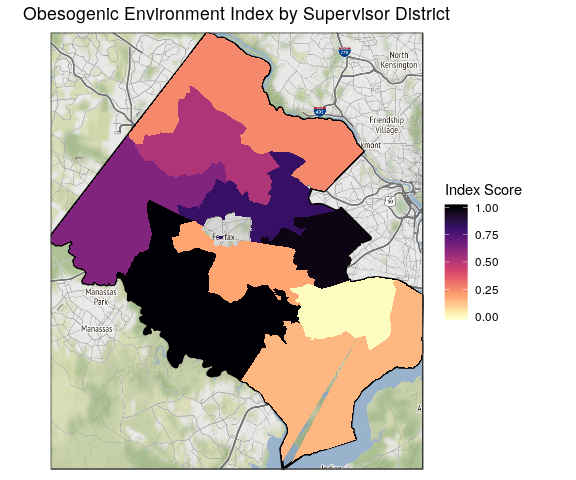
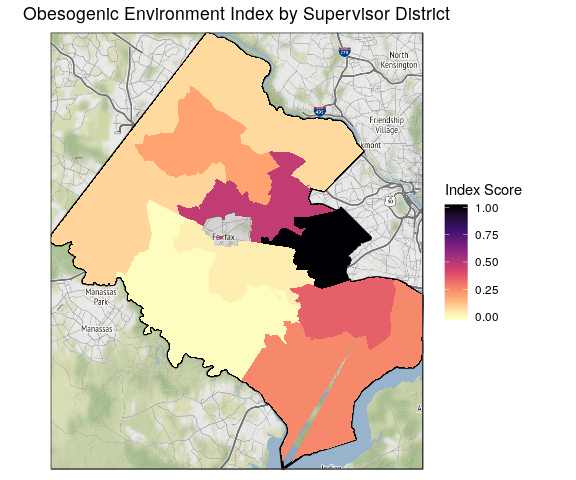
Updating OE w black instead of hispanic or minority, new figures, new data from acs.

Changed region(s): [[0.0938, 0.0625, 0.75, 0.9688]]

diff --git a/src/obesogenic_index/plot_oe_index.md b/src/obesogenic_index/plot_oe_index.md
@@ -1,51 +1,14 @@
----
-title: "Visualizing Obesogenic Index Factor Analysis"
-author: "Quinton Neville"
-date: "8/4/2019"
-output:
-  github_document: default
-  toc: true
----
+Visualizing Obesogenic Index Factor Analysis
+================
+Quinton Neville
+8/4/2019
 
-```{r setup, include = FALSE, message = FALSE, warning = FALSE}
-# Installation Libraries if needed
+1. Data Read and Factor Model
+-----------------------------
 
-# Libraries
-library(psych)
-library(tidyverse)
-library(stringr)
-library(ggplot2)
-library(ggmap)
-library(sf)
-library(rgdal)
-library(tigris)
-library(osmdata)
-library(data.table)
+Here, we read in the necessary data for our specific index, scale, fit the desired *k*-factor model, extract the loadings (variable weights), extract the proportion of total variance explained by each factor/dimension (factor weights), and define which factors load where for our composite index construction.
 
-# Setting root directory
-knitr::opts_knit$set(echo = TRUE,
-                     root.dir = rprojroot::find_rstudio_root_file())
-
-# Controlling figure output in markdown
-knitr::opts_chunk$set(
-  #  fig.height =   
-  fig.width = 6,
-  #  fig.asp = .5,
-  out.width = "90%",
-  #  out.height = 
-  cache = FALSE
-)
-# Set Theme for ggplot2
-theme_set(theme_bw() + theme(plot.title = element_text(hjust = 0.5), legend.position = "right"))
-# Set Scientific notation output for knitr
-options(scipen = 5)
-```
-
-##1. Data Read and Factor Model  
-
-Here, we read in the necessary data for our specific index, scale, fit the desired $k$-factor model, extract the loadings (variable weights), extract the proportion of total variance explained by each factor/dimension (factor weights), and define which factors load where for our composite index construction.  
-
-```{r message = FALSE, warning = FALSE}
+``` r
 #Read data original data for labels
 data.orig <- read_csv("./data/working/Obesogenic_final_data/2019_8_04_obesogenic_final.csv") %>%
   mutate(
@@ -98,7 +61,31 @@ fact.mod <- fa(r = cor.mat, nfactors = 3, rotate = "varimax", fm = "pa")
 
 #Check loadings
 print(fact.mod$loadings, cutoff = 0.3)
+```
 
+    ## 
+    ## Loadings:
+    ##                  PA1    PA2    PA3   
+    ## no_insurance             0.931       
+    ## no_highschool            0.855       
+    ## black                    0.409       
+    ## poverty                  0.779       
+    ## restaurant        0.857              
+    ## fast_food         0.845              
+    ## gas_station       0.797              
+    ## supermarket       0.738              
+    ## alcohol           0.665              
+    ## convenience       0.635              
+    ## no_swimming_pool -0.311         0.686
+    ## no_team_sport                   0.775
+    ## no_playground    -0.309         0.683
+    ## 
+    ##                  PA1   PA2   PA3
+    ## SS loadings    3.803 2.633 1.878
+    ## Proportion Var 0.293 0.203 0.144
+    ## Cumulative Var 0.293 0.495 0.640
+
+``` r
 #Extract Cronbach's Alpha  
 # Calculate internal consistency
 factor1 <- final.df %>% dplyr::select(no_insurance, no_highschool, black, poverty)
@@ -107,10 +94,107 @@ factor2 <- final.df %>% dplyr::select(restaurant, fast_food, gas_station,
 factor3 <- final.df %>% dplyr::select(no_team_sport, no_swimming_pool, no_playground)
 
 psych::alpha(factor1) # alpha = 0.84 (CI no 80), improves to .91 if black is dropped 
+```
+
+    ## 
+    ## Reliability analysis   
+    ## Call: psych::alpha(x = factor1)
+    ## 
+    ##   raw_alpha std.alpha G6(smc) average_r S/N   ase    mean   sd median_r
+    ##       0.84      0.84    0.84      0.58 5.5 0.015 7.8e-18 0.82     0.55
+    ## 
+    ##  lower alpha upper     95% confidence boundaries
+    ## 0.81 0.84 0.88 
+    ## 
+    ##  Reliability if an item is dropped:
+    ##               raw_alpha std.alpha G6(smc) average_r  S/N alpha se  var.r
+    ## no_insurance       0.74      0.74    0.69      0.48  2.8   0.0276 0.0370
+    ## no_highschool      0.76      0.76    0.74      0.52  3.3   0.0250 0.0493
+    ## black              0.91      0.91    0.88      0.77 10.3   0.0093 0.0048
+    ## poverty            0.77      0.77    0.77      0.53  3.4   0.0246 0.0727
+    ##               med.r
+    ## no_insurance   0.39
+    ## no_highschool  0.40
+    ## black          0.78
+    ## poverty        0.40
+    ## 
+    ##  Item statistics 
+    ##                 n raw.r std.r r.cor r.drop     mean sd
+    ## no_insurance  286  0.91  0.91  0.92   0.83  2.8e-17  1
+    ## no_highschool 286  0.88  0.88  0.86   0.77 -1.4e-18  1
+    ## black         286  0.65  0.65  0.43   0.41 -1.5e-17  1
+    ## poverty       286  0.87  0.87  0.82   0.75  1.1e-17  1
+
+``` r
 psych::alpha(factor2) # alpha = 0.92 (CI no 80), no improve drop
+```
+
+    ## 
+    ## Reliability analysis   
+    ## Call: psych::alpha(x = factor2)
+    ## 
+    ##   raw_alpha std.alpha G6(smc) average_r S/N    ase mean   sd median_r
+    ##       0.92      0.92    0.92      0.66  12 0.0073 0.17 0.84     0.65
+    ## 
+    ##  lower alpha upper     95% confidence boundaries
+    ## 0.91 0.92 0.94 
+    ## 
+    ##  Reliability if an item is dropped:
+    ##             raw_alpha std.alpha G6(smc) average_r  S/N alpha se  var.r
+    ## restaurant       0.89      0.89    0.89      0.62  8.3   0.0103 0.0134
+    ## fast_food        0.90      0.90    0.90      0.64  8.8   0.0098 0.0161
+    ## gas_station      0.90      0.90    0.89      0.64  9.0   0.0095 0.0160
+    ## supermarket      0.91      0.91    0.91      0.67  9.9   0.0087 0.0173
+    ## alcohol          0.92      0.92    0.92      0.71 12.1   0.0073 0.0097
+    ## convenience      0.92      0.92    0.91      0.70 11.6   0.0075 0.0078
+    ##             med.r
+    ## restaurant   0.64
+    ## fast_food    0.64
+    ## gas_station  0.64
+    ## supermarket  0.67
+    ## alcohol      0.73
+    ## convenience  0.69
+    ## 
+    ##  Item statistics 
+    ##               n raw.r std.r r.cor r.drop     mean sd
+    ## restaurant  286  0.93  0.93  0.92   0.89  4.9e-17  1
+    ## fast_food   286  0.90  0.90  0.88   0.85 -4.0e-17  1
+    ## gas_station 286  0.89  0.89  0.87   0.83 -3.3e-17  1
+    ## supermarket 286  0.84  0.84  0.80   0.77  1.0e+00  1
+    ## alcohol     286  0.76  0.76  0.68   0.65 -2.5e-17  1
+    ## convenience 286  0.78  0.78  0.73   0.68 -3.2e-17  1
+
+``` r
 psych::alpha(factor3) # alpha = 0.82, no improve drop (CI does contain 80)
+```
 
+    ## 
+    ## Reliability analysis   
+    ## Call: psych::alpha(x = factor3)
+    ## 
+    ##   raw_alpha std.alpha G6(smc) average_r S/N   ase  mean   sd median_r
+    ##       0.82      0.82    0.75       0.6 4.5 0.019 4e-18 0.85     0.61
+    ## 
+    ##  lower alpha upper     95% confidence boundaries
+    ## 0.78 0.82 0.85 
+    ## 
+    ##  Reliability if an item is dropped:
+    ##                  raw_alpha std.alpha G6(smc) average_r S/N alpha se var.r
+    ## no_team_sport         0.73      0.73    0.58      0.58 2.7    0.032    NA
+    ## no_swimming_pool      0.76      0.76    0.62      0.62 3.2    0.028    NA
+    ## no_playground         0.76      0.76    0.61      0.61 3.1    0.029    NA
+    ##                  med.r
+    ## no_team_sport     0.58
+    ## no_swimming_pool  0.62
+    ## no_playground     0.61
+    ## 
+    ##  Item statistics 
+    ##                    n raw.r std.r r.cor r.drop     mean sd
+    ## no_team_sport    286  0.87  0.87  0.76   0.69 -1.7e-17  1
+    ## no_swimming_pool 286  0.85  0.85  0.73   0.66  1.4e-17  1
+    ## no_playground    286  0.85  0.85  0.74   0.67  1.3e-17  1
 
+``` r
 # Extract loadings and explained proportation
 fa.load     <- fact.mod$loadings %>% 
                unclass() %>%
@@ -135,11 +219,11 @@ var.load <- tibble(
 )
 ```
 
-####a. Composite Index Construction  
+#### a. Composite Index Construction
 
-Here we build an index construction function, which takes the following inputs: `data` (*final scaled data frame for FA*), `factor.data` (variable~factor data frame with two columns: variable name and factor name), `geo.type` (one of `census_tract, highschool_district, supervisor_district`), `var.weights` (weights for individual variables, default is factor loadings), and `f.weights` (weights for factor aggregation, default is proportion variance explained). The output is a data frame (tibble) with columns `geography`, describing geographic observations (i.e. census tract name, school district name, etc.)), and `factor_scores`, describing the normalized (0 - 1) final index scores for each observation.  
+Here we build an index construction function, which takes the following inputs: `data` (*final scaled data frame for FA*), `factor.data` (variable~factor data frame with two columns: variable name and factor name), `geo.type` (one of `census_tract, highschool_district, supervisor_district`), `var.weights` (weights for individual variables, default is factor loadings), and `f.weights` (weights for factor aggregation, default is proportion variance explained). The output is a data frame (tibble) with columns `geography`, describing geographic observations (i.e. census tract name, school district name, etc.)), and `factor_scores`, describing the normalized (0 - 1) final index scores for each observation.
 
-```{r}
+``` r
 index_construct <- function(data = final.df, factor.data = var.load, geo.type = "census_tract", var.weights = fa.load, f.weights = fa.prop.var) {
   
 ###Housekeeping####  
@@ -194,46 +278,14 @@ data.orig %>%
 }
 ```
 
-```{r echo = FALSE, eval = FALSE}
-#TESTING
+2. Visualization
+----------------
 
-##Geography type
-#map(.x = data.orig$id_type %>% unique(), ~index_construct(geo.type = .x))
+#### a. Shape File for Plotting
 
-##Alternate variable weights (must be a transposed vector for consistency)
-#index_construct(f.weights = t(rep(1/3, 3)))
+Here, the function takes the inputs `data` (an data frame object generated by the `index_construction` function above, see documentation for description of output) and `geo.type`, again, one of `census_tract, highschool_district, supervisor_district`), `var.weights`. The output is a joined shapefile of the desired geographic region joined to the data frame of final normalized factor scores for each geagraphic region's observations, type specific.
 
-##Changes to factor loadings (weights)
-N <- nrow(fa.load)
-new.load <- tibble(
-  variable = fa.load$variable,
-  food     = runif(N),
-  ses      = runif(N),
-  physical = runif(N)
-)
-
-#index_construct(var.weights = new.load)
-
-##Changes to where factors load
-new.var.load <- tibble(
-  variable = colnames(final.df %>%
-                       dplyr::select_if(is.numeric)) %>%
-                       str_c(),
-  factor  = c(rep("ses", 3), rep("food", 5), rep("physical", 5))
-)
-
-#index_construct(factor.data = new.var.load)
-
-##All good in the hood
-```
-
-##2. Visualization
-
-####a. Shape File for Plotting  
-
-Here, the function takes the inputs `data` (an data frame object generated by the `index_construction` function above, see documentation for description of output) and `geo.type`, again, one of `census_tract, highschool_district, supervisor_district`), `var.weights`. The output is a joined shapefile of the desired geographic region joined to the data frame of final normalized factor scores for each geagraphic region's observations, type specific.    
-
-```{r message = FALSE, warning = FALSE, results = "hide"}
+``` r
 #Collect Objects for plotting
 
 index_shp <- function(data = census.df, geo.type = "census_tract") {
@@ -277,19 +329,11 @@ index_shp <- function(data = census.df, geo.type = "census_tract") {
 }
 ```
 
+#### b. ggplot Construction
 
-```{r include = FALSE, warning = FALSE, message = FALSE}
-#Test
-census.shp     <- index_shp(index_construct(), "census_tract")
-highschool.shp <- index_shp(index_construct(geo.type = "highschool_district"), "highschool_district")
-supervisor.shp <- index_shp(index_construct(geo.type = "supervisor_district"), "supervisor_district")
-```
+First we recall the function for generating the base fairfax map `ggplot2` object.
 
-####b. ggplot Construction
-
-First we recall the function for generating the base fairfax map `ggplot2` object.  
-
-```{r message = FALSE, warning = FALSE}
+``` r
 #Base Map Function
 fairfax.gg <- function() {
   fairfax.box <- getbb("fairfax county")
@@ -313,9 +357,9 @@ fairfax.gg <- function() {
 ffx.gg <- fairfax.gg()
 ```
 
-Now, we create a function to plot the final index output onto a map of fairfax county, coloured by risk level (dark - high), by specified geographic unit. Inputs to the function consist of a `geo.shp` spatial polygon generated from the `index_construction` and then `index_shp` functions above, basically an object outputted by `index_shp` which requires the output of `index_construction` (see above); `geo.type` a string defining the geographic unit (i.e. "Census Tract"); and `index.name` a character string defining the Index that this plot describes.   
+Now, we create a function to plot the final index output onto a map of fairfax county, coloured by risk level (dark - high), by specified geographic unit. Inputs to the function consist of a `geo.shp` spatial polygon generated from the `index_construction` and then `index_shp` functions above, basically an object outputted by `index_shp` which requires the output of `index_construction` (see above); `geo.type` a string defining the geographic unit (i.e. "Census Tract"); and `index.name` a character string defining the Index that this plot describes.
 
-```{r warning = FALSE }
+``` r
 plot_index <- function(geo.shp    = census.df, 
                        geo.type   = "Census Tract",
                        index.name = "Obesogenic Environment") {
@@ -334,48 +378,23 @@ plot_index <- function(geo.shp    = census.df,
 }
 ```
 
-```{r include = FALSE, warning = FALSE, message = FALSE, echo = FALSE, eval = FALSE}
-#TEST
-plot_index(census.shp    , "Census Tract", "Obesogenic Environment")
-plot_index(highschool.shp, "Census Tract", "Obesogenic Environment")
-plot_index(supervisor.shp, "Census Tract", "Obesogenic Environment")
-```
+3. Results
+----------
 
-##3. Results
+Here, we generate the final results and subsequent visualizations. The user must define the weights (default loadings/prop. variance), where variables load, and to what unit of geography index construction is to occur.
 
+    ## [[1]]
 
-Here, we generate the final results and subsequent visualizations. The user must define the weights (default loadings/prop. variance), where variables load, and to what unit of geography index construction is to occur.  
+<img src="plot_oe_index_files/figure-markdown_github/unnamed-chunk-10-1.png" width="90%" />
 
+    ## 
+    ## [[2]]
 
-```{r warning = FALSE, message = FALSE, include = FALSE}
-#Call final results using functions defined above
-obesogenic.result.df <- tibble(
-  geography = c("census_tract", "highschool_district", "supervisor_district"),
-  indices   = map(.x = geography, ~index_construct(geo.type = .x)),
-  shp_files = map2(.x = indices, .y = geography, ~index_shp(.x, .y)),
-  ggplots   = map2(.x = shp_files, 
-                   .y = c("Census Tract", "Highschool District", "Supervisor District"),
-                   ~plot_index(.x, .y, "Obesogenic Environment"))
-)
-```
+<img src="plot_oe_index_files/figure-markdown_github/unnamed-chunk-10-2.png" width="90%" />
 
-```{r echo = FALSE}
-obesogenic.result.df$ggplots
-```
+    ## 
+    ## [[3]]
 
+<img src="plot_oe_index_files/figure-markdown_github/unnamed-chunk-10-3.png" width="90%" />
 
-
-Save figures for use later.  
-
-```{r echo = FALSE, include = FALSE}
-for(i in 1:nrow(obesogenic.result.df)) {
-  ggsave(sprintf("./src/obesogenic_index/figures/19_8_4_%s.jpg",
-                 obesogenic.result.df$geography[i]),
-         obesogenic.result.df$ggplots[[i]])
-}
-```
-
-
-
-
-
+Save figures for use later.
